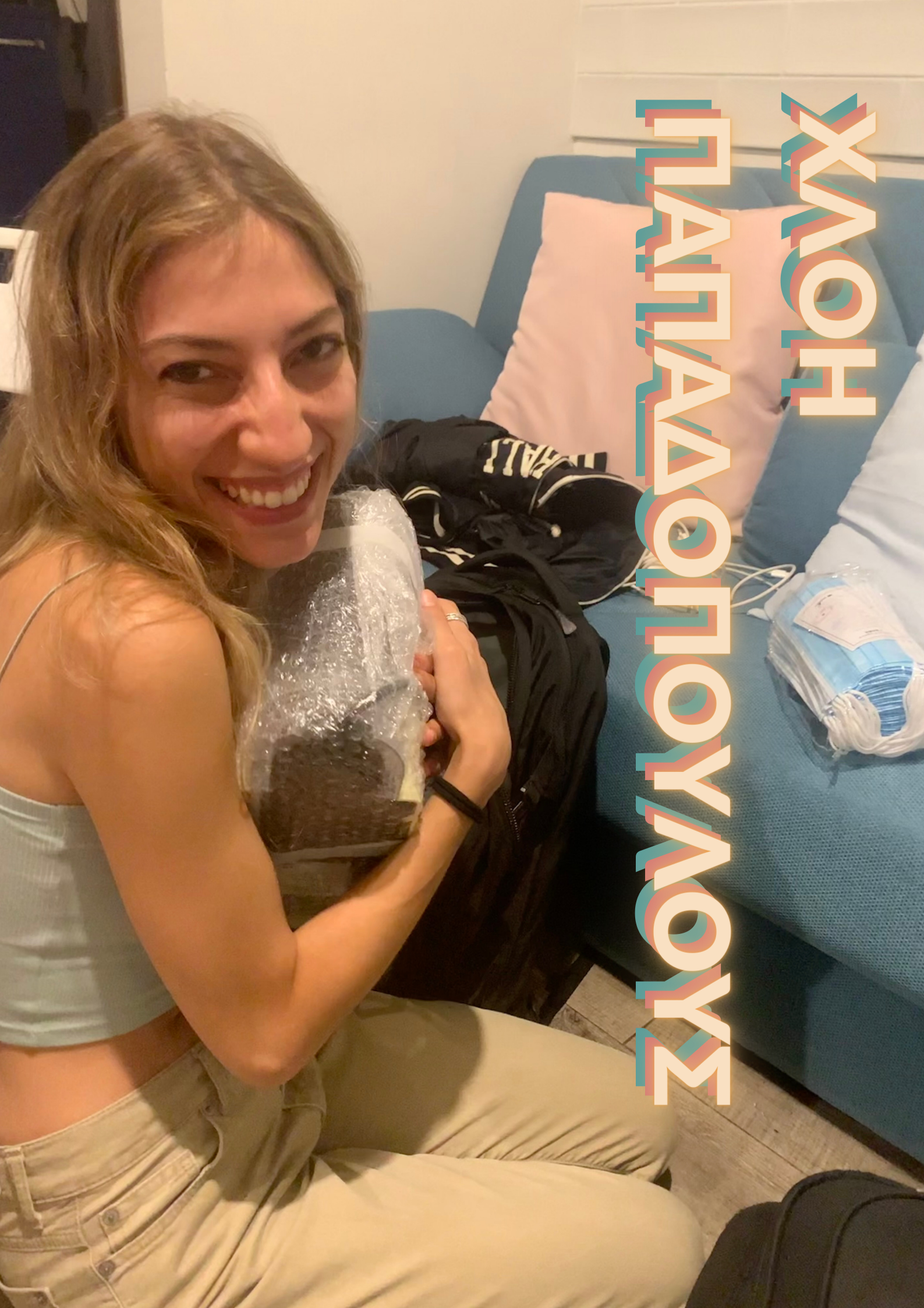
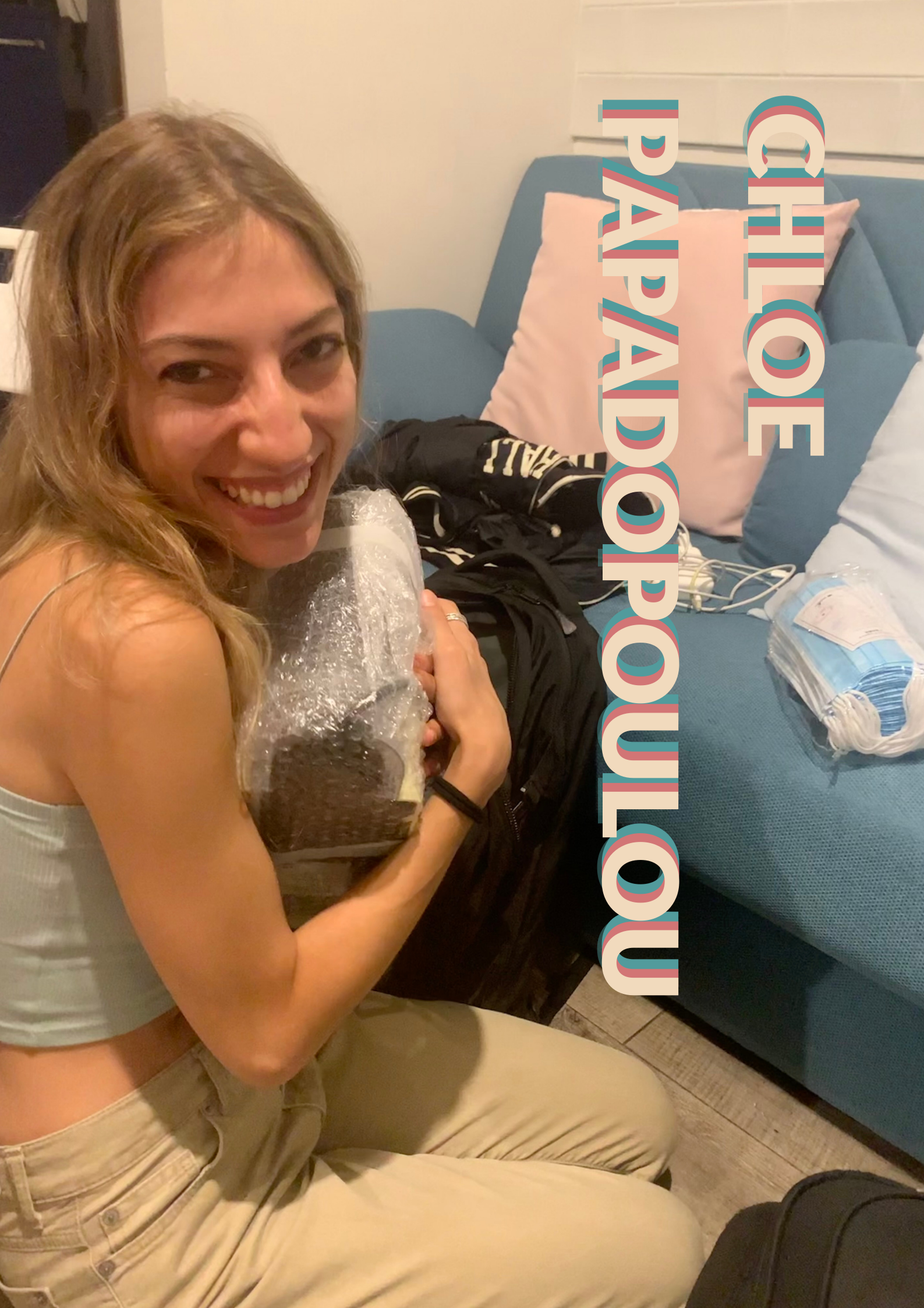
added fra linkedin + update chloe pic

Changed region(s): [[0.6484, 0.0624, 0.9572, 0.8419]]

diff --git a/index.html b/index.html
@@ -829,7 +829,7 @@
               </div>
               <div class="social flex-column team-3">
 
-                <a href="mailto:@studio.unibo.it" style="background-color: var(--color-palette-green)"><i
+                <a href="mailto:muhammadahsan.syed@studio.unibo.it" style="background-color: var(--color-palette-green)"><i
                     class="bi bi-envelope"></i></a>
                 <a href="https://www.linkedin.com/in/ahsansyedv101/" target="_blank"
                   style="background-color: var(--color-palette-green)"><i class="bi bi-linkedin"></i></a>
@@ -849,9 +849,9 @@
               </div>
               <div class="social flex-column team-4">
 
-                <a href="mailto:@studio.unibo.it" style="background-color: var(--color-palette-yellow)"><i
+                <a href="mailto:francesca.budel@studio.unibo.it" style="background-color: var(--color-palette-yellow)"><i
                     class="bi bi-envelope"></i></a>
-                <a href="" target="_blank" style="background-color: var(--color-palette-yellow)"><i
+                <a href="https://www.linkedin.com/in/francesca-budel-4a601a199/" target="_blank" style="background-color: var(--color-palette-yellow)"><i
                     class="bi bi-linkedin"></i></a>
 
                 <div class="assigned-tasks">
